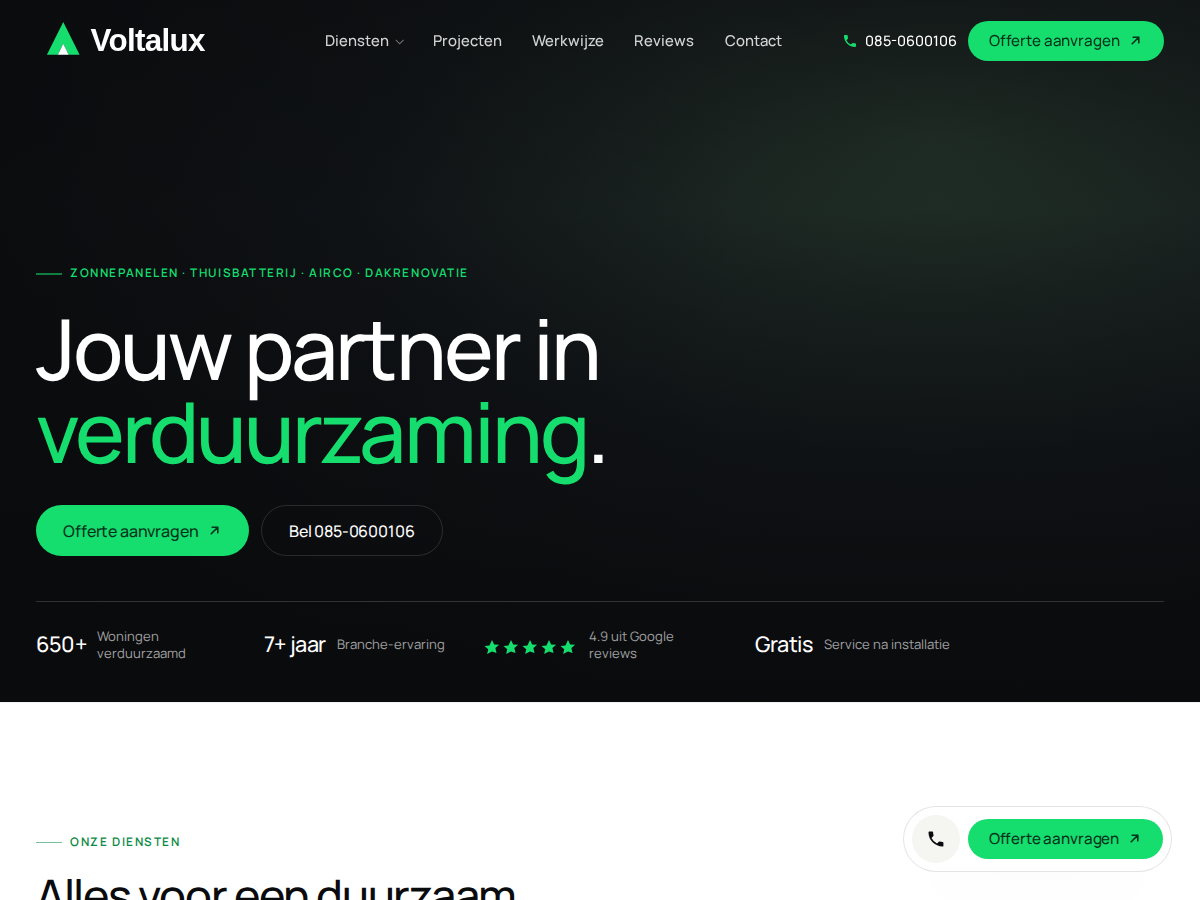
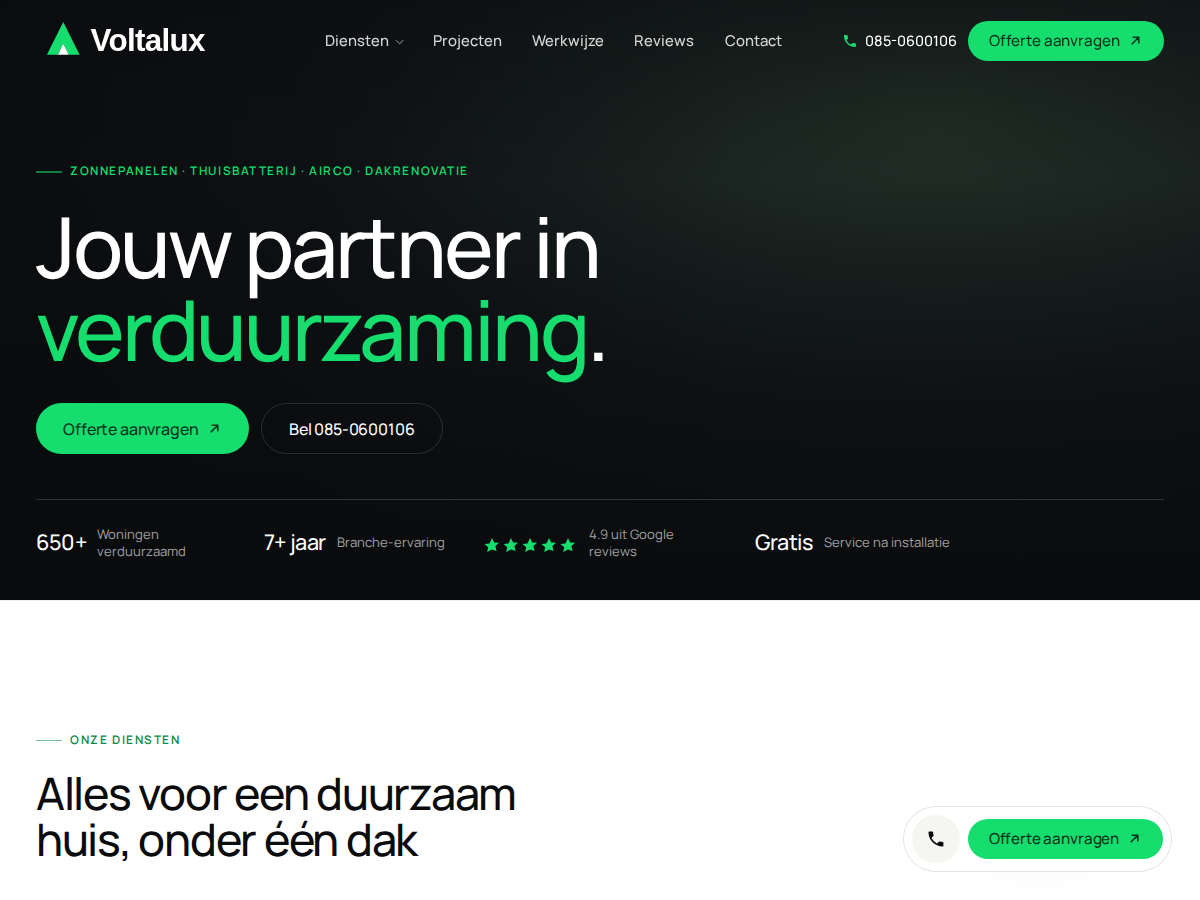
Round 7: trim desktop hero top space, flush offerte form, drop section subtitles
- Hero: reduce desktop min-height (720->600px) so the content sits higher and
  the empty band above the eyebrow is gone; mobile height unchanged.
- Offerte form: in the stacked layout the white form panel now sits flush to
  the dark card edges (0 surrounding gap) with square top corners, so it reads
  as one integrated card; the intro text above is untouched. Inner form padding
  now tracks the outer padding via an --offerte-pad variable so fields align.
- Remove the long intro subtitles under the Diensten and Thuisbatterijen
  headings (eyebrow + title only) per the "keep subtitles minimal" request.
- Bump theme version to 3.4.0.

Claude-Session: https://claude.ai/code/session_019g7JR4kKgfngk3iqcZKSQ3

diff --git a/voltalux/assets/css/theme.css b/voltalux/assets/css/theme.css
@@ -189,7 +189,7 @@ body.menu-open .vlx-m-nav__foot > * { animation: mEnter .55s var(--ease-out) bot
 /* -------------------------------------------------------------------------
    4. Hero
    ------------------------------------------------------------------------- */
-.vlx-hero { position: relative; min-height: min(78vh, 720px); margin-top: calc(var(--header-h) * -1); display: flex; flex-direction: column; justify-content: flex-end; color: #fff; overflow: hidden; background: var(--ink); }
+.vlx-hero { position: relative; min-height: min(70vh, 600px); margin-top: calc(var(--header-h) * -1); display: flex; flex-direction: column; justify-content: flex-end; color: #fff; overflow: hidden; background: var(--ink); }
 .vlx-hero__media, .vlx-hero__media video, .vlx-hero__media img { position: absolute; inset: 0; width: 100%; height: 100%; object-fit: cover; }
 .vlx-hero__media::after { content:""; position:absolute; inset:0; background:
 	linear-gradient(180deg, rgba(10,11,13,.55) 0%, rgba(10,11,13,.12) 30%, rgba(10,11,13,.55) 72%, rgba(10,11,13,.94) 100%),
@@ -519,7 +519,7 @@ button[type=submit]:hover, input[type=submit]:hover { transform: translateY(-2px
 .vlx-project__link { position: absolute; inset: 0; }
 
 /* --- Offerte form section --- */
-.vlx-offerte { position: relative; overflow: hidden; background: var(--ink); color: #fff; border-radius: var(--r-card); padding: clamp(2.2rem,1.4rem + 3vw,3.6rem); display: grid; grid-template-columns: 1fr 1fr; gap: clamp(2rem,1rem + 3vw,4rem); align-items: center; }
+.vlx-offerte { --offerte-pad: clamp(2.2rem, 1.4rem + 3vw, 3.6rem); position: relative; overflow: hidden; background: var(--ink); color: #fff; border-radius: var(--r-card); padding: var(--offerte-pad); display: grid; grid-template-columns: 1fr 1fr; gap: clamp(2rem,1rem + 3vw,4rem); align-items: center; }
 .vlx-offerte::before { content:""; position:absolute; left:-10%; top:-30%; width: 460px; height: 460px; border-radius:50%; background: radial-gradient(circle, rgba(21,221,110,.4), transparent 62%); }
 .vlx-offerte > * { position: relative; }
 .vlx-offerte h2 { color: #fff; }
@@ -565,12 +565,13 @@ body.drawer-open .vlx-drawer__panel { transform: translateX(0); }
 	.vlx-values { grid-template-columns: 1fr; }
 	.vlx-projects { grid-template-columns: repeat(2, 1fr); }
 	.vlx-welkom { grid-template-columns: 1fr; }
+	/* Stacked layout: the form panel merges flush with the dark outer card. */
 	.vlx-offerte { grid-template-columns: 1fr; }
+	.vlx-offerte__card { margin: 1.8rem calc(-1 * var(--offerte-pad)) calc(-1 * var(--offerte-pad)); padding: var(--offerte-pad); border-radius: 0; }
 }
 @media (max-width: 640px) {
 	.vlx-services, .vlx-projects { grid-template-columns: 1fr; }
-	.vlx-offerte { padding: 1.6rem; }
-	.vlx-offerte__card { padding: 1.4rem; }
+	.vlx-offerte { --offerte-pad: 1.6rem; }
 	.vlx-form__grid { grid-template-columns: 1fr; }
 	.vlx-drawer__head, .vlx-drawer__body { padding-inline: 1.4rem; }
 }

diff --git a/voltalux/style.css b/voltalux/style.css
@@ -4,7 +4,7 @@ Theme URI: https://voltalux.nl
 Author: DigiTEN
 Author URI: https://digiten.nl
 Description: Voltalux — een krachtig, verfijnd WordPress-thema voor duurzame energie, thuisbatterijen en zonnepanelen. Eigen 'precision energy' designtaal, video-hero, mega-menu met producten en een strak mobiel menu. Volledig compatibel met Elementor: alle kleuren, typografie en knopstijlen werken automatisch door.
-Version: 3.3.0
+Version: 3.4.0
 Requires at least: 6.0
 Tested up to: 6.7
 Requires PHP: 7.4

diff --git a/voltalux/template-parts/home/producten.php b/voltalux/template-parts/home/producten.php
@@ -23,7 +23,6 @@ if ( empty( $products ) ) {
 		<div class="vlx-s-head vlx-s-head--center vlx-reveal">
 			<?php if ( $eyebrow ) { voltalux_eyebrow( $eyebrow, true ); } ?>
 			<h2><?php echo esc_html( $title ); ?></h2>
-			<?php if ( $intro ) : ?><p class="vlx-lead"><?php echo esc_html( $intro ); ?></p><?php endif; ?>
 		</div>
 
 		<div class="vlx-batts">

diff --git a/voltalux/template-parts/home/services.php b/voltalux/template-parts/home/services.php
@@ -19,7 +19,6 @@ if ( empty( $services ) ) {
 		<div class="vlx-s-head vlx-reveal">
 			<?php if ( $eyebrow ) { voltalux_eyebrow( $eyebrow ); } ?>
 			<h2><?php echo esc_html( $title ); ?></h2>
-			<?php if ( $intro ) : ?><p class="vlx-lead"><?php echo esc_html( $intro ); ?></p><?php endif; ?>
 		</div>
 
 		<div class="vlx-services">

diff --git a/voltalux/functions.php b/voltalux/functions.php
@@ -10,7 +10,7 @@ if ( ! defined( 'ABSPATH' ) ) {
 }
 
 if ( ! defined( 'VOLTALUX_VERSION' ) ) {
-	define( 'VOLTALUX_VERSION', '3.3.0' );
+	define( 'VOLTALUX_VERSION', '3.4.0' );
 }
 define( 'VOLTALUX_DIR', trailingslashit( get_template_directory() ) );
 define( 'VOLTALUX_URI', trailingslashit( get_template_directory_uri() ) );
